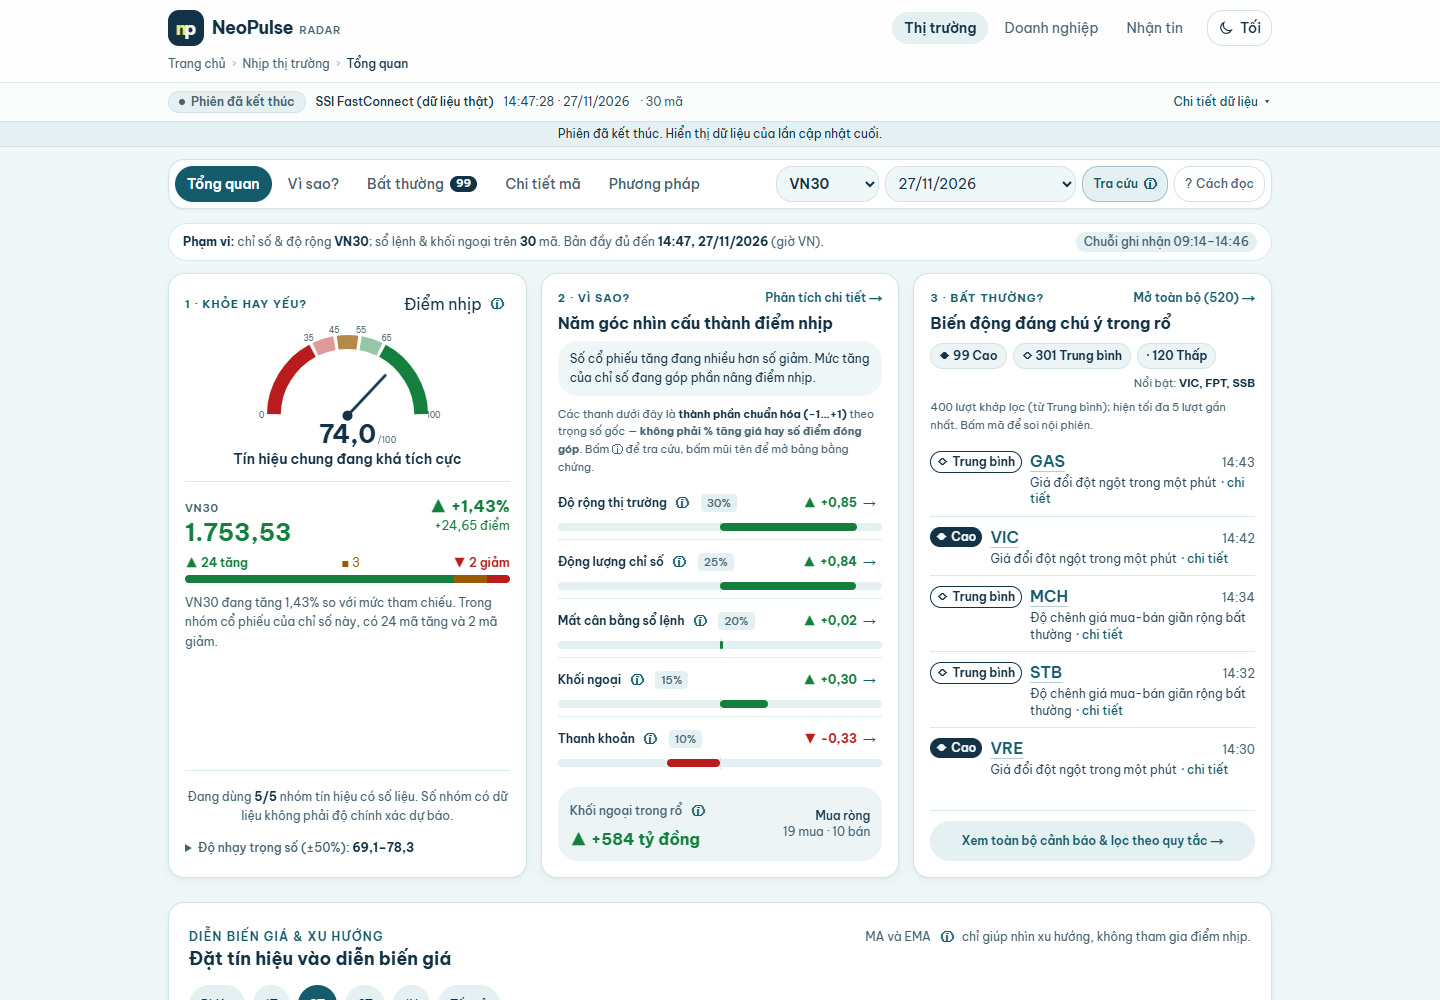
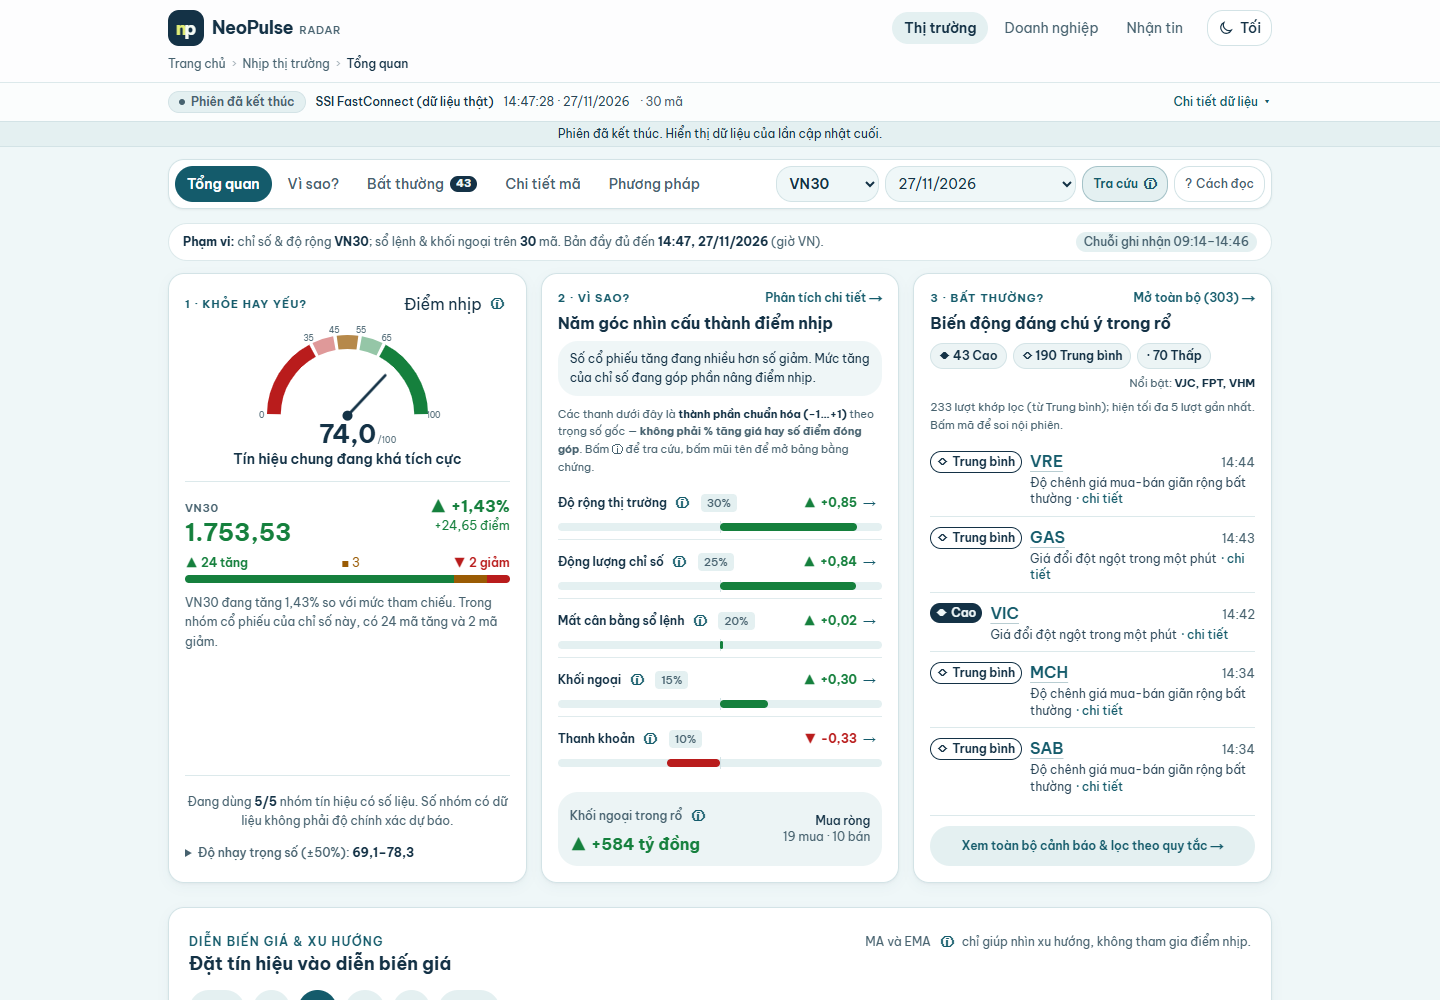
docs: chụp lại ảnh Tổng quan với số cuối 43/303 (CX-032); checklist báo cáo theo hiện trạng (CX-034)

diff --git a/report/README.md b/report/README.md
@@ -47,13 +47,13 @@ Có tái sử dụng có chọn lọc từ dự án cá nhân trước của tá
 
 ## Checklist hoàn thiện trước khi nộp (30/11/2026)
 
-- [ ] Ghi thêm phiên 26/11 và 27/11 (máy cắm sạc, không tắt; kiểm tra lịch theo README mục "Lịch ghi tự động").
-- [ ] Sau mỗi phiên, `scripts/run_record_session.ps1` tự chạy `neopulse report-data`; kiểm tra `report/data/SUMMARY.md` rồi commit.
-- [ ] Phần 1 và 4 của báo cáo: nêu việc đã xin ý kiến giảng viên dùng SSI thay NEO (README đã ghi).
-- [ ] Ảnh dữ liệu thật `docs/img/*_live*.png` (desktop và điện thoại); ảnh `_sim` chỉ dùng minh họa và ghi rõ "mô phỏng".
+- [x] Ghi thêm phiên 26/11 và 27/11: đã có trong `report/data/SUMMARY.md` (6 phiên, 3 phiên đủ).
+- [x] `report/data/SUMMARY.md` sinh lại bằng `neopulse report-data` sau hiệu chỉnh (28/11/2026) và đã commit.
+- [ ] Phần 1 và 4 của báo cáo: nêu việc đã xin ý kiến giảng viên dùng SSI thay NEO; điền ngày và hình thức chấp thuận vào chỗ `[ngày]`, `[hình thức]` trong README.
+- [x] Ảnh dữ liệu thật cuối ở `docs/img/final/` (desktop và điện thoại, phiên 27/11); ảnh `_sim` chỉ dùng minh họa và ghi rõ "mô phỏng".
 - [ ] Bảng IC và tần suất cảnh báo lấy từ `report/data/SUMMARY.md`; nói rõ số phiên trong/ngoài mẫu và giới hạn.
 - [ ] Ảnh đối chiếu 3–5 mã với bảng giá công khai cùng thời điểm; ảnh thử lỗi (dừng bộ ghi, web báo dữ liệu cũ).
-- [ ] Ghi rõ việc dùng công cụ AI hỗ trợ lập trình và biên tập (Mục 13 của đề).
+- [ ] Ghi rõ việc dùng công cụ AI hỗ trợ lập trình và biên tập (Mục 13 của đề); README đã có mục riêng, báo cáo cần nêu lại.
 
 ## Kịch bản video (5–7 phút)
 
